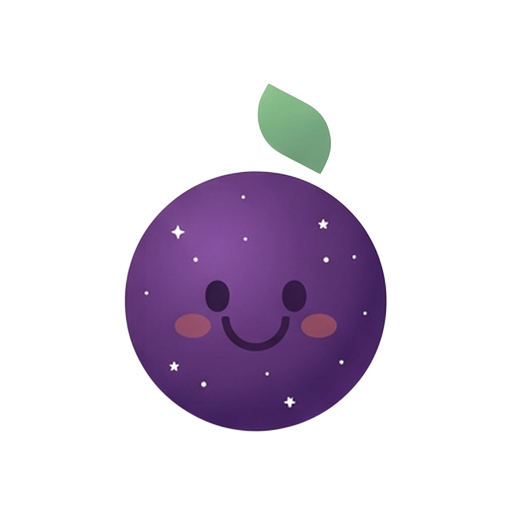
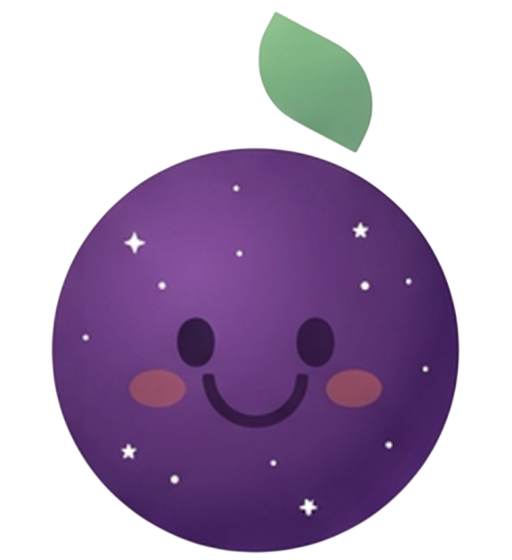
Fix iOS Notification crash, remove nav circle, update 3 mascots
- Guard all Notification references with typeof check (fixes Safari crash)
- Remove circular div wrapper from nav chat button — mascot is the button now
- Replace cosmic/golden/watermelon PNGs with new transparent versions

diff --git a/client/src/App.jsx b/client/src/App.jsx
@@ -27,14 +27,7 @@ function Nav() {
       </NavLink>
       {/* Centre Prudence button — opens Chat */}
       <NavLink to="/chat" className="nav-center">
-        <div style={{
-          width: 50, height: 50, borderRadius: '50%',
-          boxShadow: '0 8px 20px rgba(236,139,67,.45)',
-          position: 'relative', overflow: 'visible',
-          transition: 'box-shadow 0.2s',
-        }}>
-          <Prudence size={50} />
-        </div>
+        <Prudence size={50} animate={false} style={{ filter: 'drop-shadow(0 4px 10px rgba(236,139,67,.45))' }} />
         <span>Chat</span>
       </NavLink>
       <NavLink to="/history" className={({ isActive }) => `nav-item${isActive ? ' active' : ''}`}>

diff --git a/client/src/pages/Dashboard.jsx b/client/src/pages/Dashboard.jsx
@@ -67,7 +67,7 @@ export default function Dashboard() {
       if (maxStreak > stored) localStorage.setItem('prudence_max_streak', String(maxStreak));
       checkUnlocks(maxStreak);
       // Schedule client-side task notifications
-      if (Notification.permission === 'granted') {
+      if (typeof Notification !== 'undefined' && Notification.permission === 'granted') {
         scheduleTaskNotifications(d.goals ?? []);
       }
     } catch (e) {
@@ -109,7 +109,7 @@ export default function Dashboard() {
   const hasGoals = (data?.goals?.length ?? 0) > 0;
   const allTasks = (data?.goals ?? []).flatMap(g => g.tasks);
   const doneTasks = allTasks.filter(t => t.status === 'done').length;
-  const showNotifBanner = !notifAsked && 'Notification' in window && Notification.permission === 'default';
+  const showNotifBanner = !notifAsked && typeof Notification !== 'undefined' && Notification.permission === 'default';
 
   const today = new Date();
   const dayOfWeek = today.getDay();